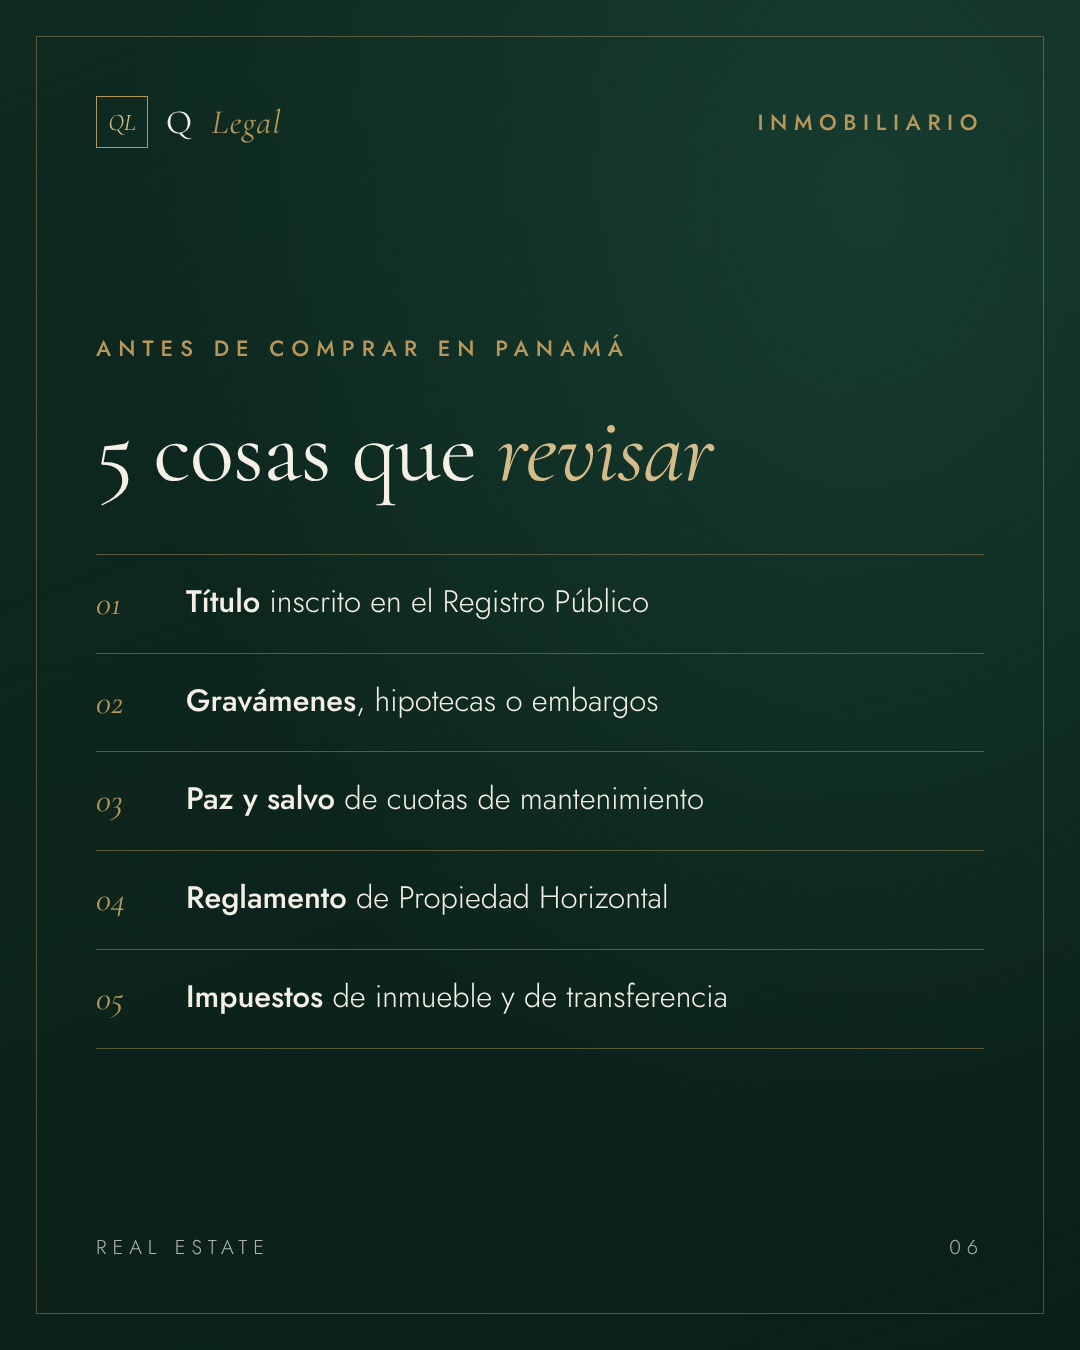
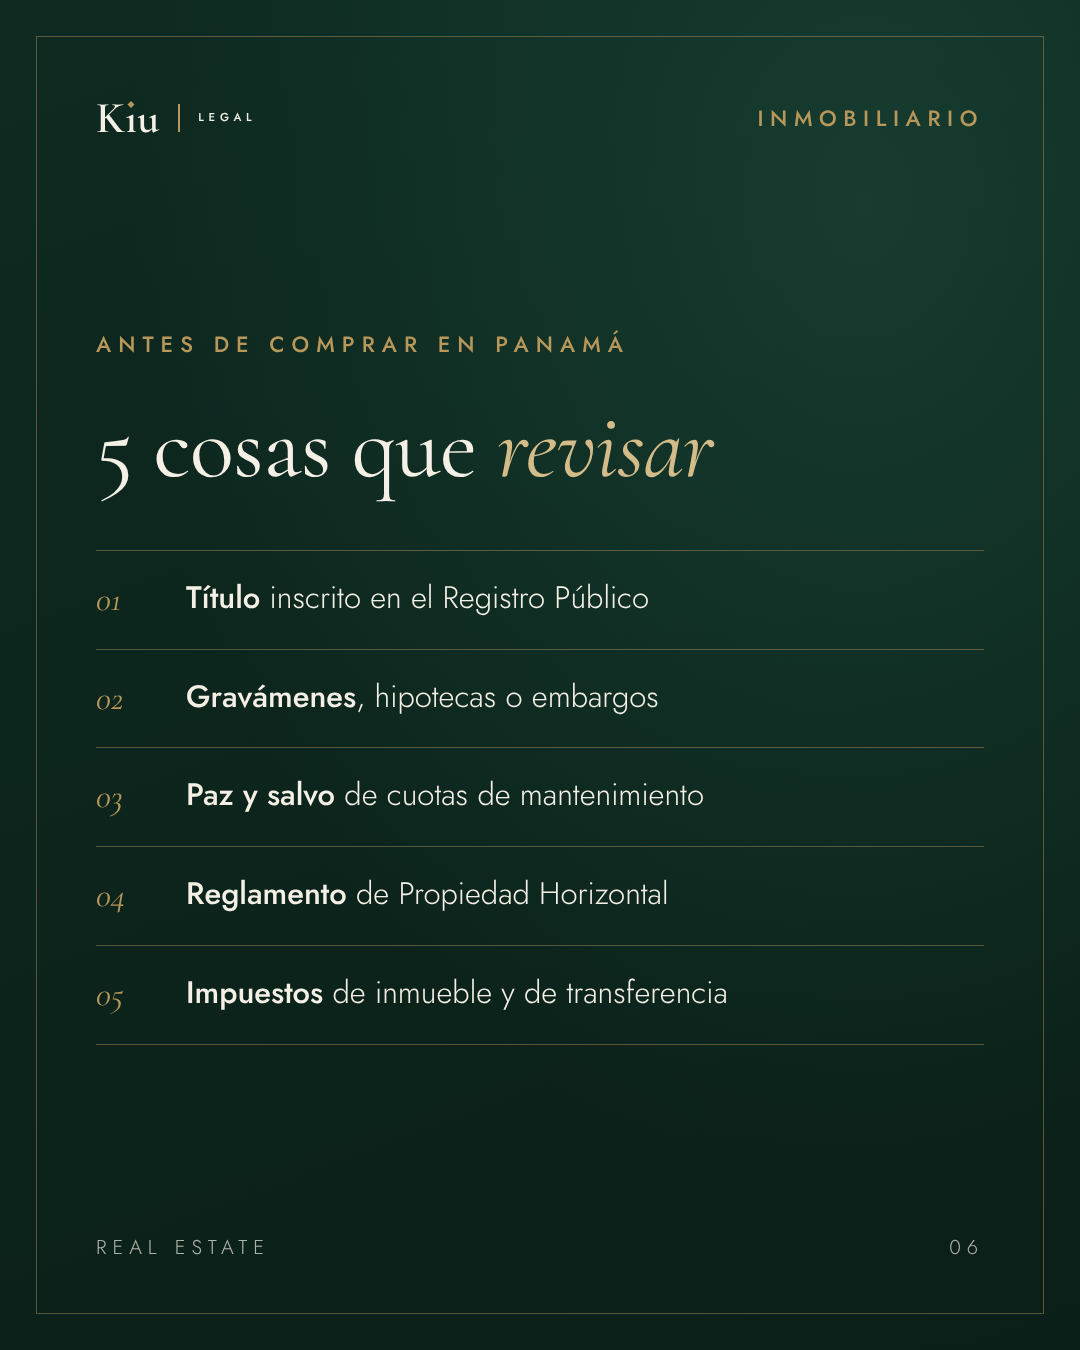
Rebrand Instagram kit to Kiu Legal
Kiu Legal wordmark on all ten posts, K icon as profile picture, and
captions, handle and hashtags updated in the kit README.

Claude-Session: https://claude.ai/code/session_01WEenf36RL8cNZQYsza8ctW

diff --git a/instagram/src/posts.html b/instagram/src/posts.html
@@ -2,7 +2,7 @@
 <html lang="es">
 <head>
 <meta charset="utf-8">
-<title>Q Legal — Instagram kit</title>
+<title>Kiu Legal — Instagram kit</title>
 <link href="https://fonts.googleapis.com/css2?family=Cormorant+Garamond:ital,wght@0,400;0,500;0,600;1,400;1,500&family=Jost:wght@300;400;500&display=swap" rel="stylesheet">
 <style>
   :root {
@@ -31,10 +31,14 @@
   .top { color: var(--brass); font-weight: 500; }
   .foot { margin-top: auto; font-size: 20px; opacity: .7; }
   .light .foot, .sand .foot { color: var(--green-900); }
-  .brand { display: flex; align-items: center; gap: 18px; font-family: var(--serif); font-size: 34px; letter-spacing: .04em; text-transform: none; color: inherit; font-weight: 400; }
+  /* Logotipo Kiu Legal: el punto de la i es un rombo dorado */
+  .brand { display: inline-flex; align-items: center; gap: .42em; line-height: 1; font-size: 44px; text-transform: none; letter-spacing: 0; color: var(--green-900); }
   .dark .brand { color: var(--ivory); }
-  .brand i { color: var(--brass); }
-  .mono { width: 52px; height: 52px; display: grid; place-items: center; border: 1.5px solid var(--brass); font-family: var(--serif); font-style: italic; font-size: 24px; color: var(--brass-lt); background: var(--green-900); letter-spacing: 0; }
+  .brand .kiu { font-family: var(--serif); font-weight: 600; letter-spacing: .01em; }
+  .brand .i { position: relative; display: inline-block; }
+  .brand .i::after { content: ""; position: absolute; left: 50%; top: .13em; width: .12em; height: .12em; background: var(--brass); transform: translateX(-50%) rotate(45deg); }
+  .brand .sep { width: 1.5px; height: .62em; background: var(--brass); }
+  .brand .legal { font-family: var(--sans); font-weight: 500; font-size: .26em; letter-spacing: .42em; }
 
   .body { margin-top: auto; }
   .eyebrow { font-size: 22px; letter-spacing: .32em; text-transform: uppercase; color: var(--brass); font-weight: 500; margin-bottom: 40px; }
@@ -74,8 +78,8 @@
 
   /* ---------- Avatar y portadas ---------- */
   .avatar { width: 1080px; height: 1080px; display: grid; place-items: center; background: var(--green-900); margin-bottom: 40px; }
-  .avatar .ring { width: 660px; height: 660px; border: 3px solid var(--brass); display: grid; place-items: center; }
-  .avatar span { font-family: var(--serif); font-style: italic; font-size: 330px; color: var(--brass-lt); letter-spacing: .02em; line-height: 1; padding-bottom: 30px; }
+  .avatar span { position: relative; font-family: var(--serif); font-weight: 600; font-size: 620px; color: var(--ivory); line-height: 1; padding-bottom: 40px; margin-left: -40px; }
+  .avatar span::after { content: ""; position: absolute; right: -.07em; top: .2em; width: .13em; height: .13em; background: var(--brass); transform: rotate(45deg); }
   .cover { width: 1080px; height: 1080px; display: grid; place-items: center; background: var(--green-900); margin-bottom: 40px; }
   .cover div { width: 560px; height: 560px; border-radius: 50%; border: 3px solid var(--brass); display: grid; place-items: center; text-align: center; }
   .cover span { font-family: var(--serif); font-style: italic; font-size: 120px; color: var(--brass-lt); line-height: 1; }
@@ -86,13 +90,13 @@
 
 <!-- 01 · Lanzamiento -->
 <section class="post dark" id="post-01">
-  <div class="watermark">Q</div>
-  <div class="top"><span class="brand"><span class="mono">QL</span>Q <i>Legal</i></span><span>2026</span></div>
+  <div class="watermark">K</div>
+  <div class="top"><span class="brand"><span class="kiu">K<span class="i">ı</span>u</span><span class="sep"></span><span class="legal">LEGAL</span></span><span>2026</span></div>
   <div class="body">
     <p class="eyebrow">Ciudad de Panamá</p>
     <h1>Pocos clientes.<br><em>Atención absoluta.</em></h1>
     <div class="rule"></div>
-    <p class="lede">Nace Q Legal: asesoría legal boutique para empresarios, inversionistas y navieras internacionales.</p>
+    <p class="lede">Nace Kiu Legal: asesoría legal boutique para empresarios, inversionistas y navieras internacionales.</p>
   </div>
   <div class="foot"><span>Boutique Legal Advisory</span><span>01</span></div>
 </section>
@@ -102,7 +106,7 @@
   <img src="../../assets/founder.jpg" alt="">
   <div class="shade"></div>
   <div class="inner">
-    <div class="top"><span class="brand"><span class="mono">QL</span>Q <i>Legal</i></span><span></span></div>
+    <div class="top"><span class="brand"><span class="kiu">K<span class="i">ı</span>u</span><span class="sep"></span><span class="legal">LEGAL</span></span><span></span></div>
     <div class="body">
       <p class="eyebrow">Socio fundador</p>
       <h2>Jose Alberto<br><em>Quiel</em></h2>
@@ -114,7 +118,7 @@
 
 <!-- 03 · Filosofía -->
 <section class="post light center" id="post-03">
-  <div class="top" style="width:100%"><span class="brand"><span class="mono">QL</span>Q <i>Legal</i></span><span>Filosofía</span></div>
+  <div class="top" style="width:100%"><span class="brand"><span class="kiu">K<span class="i">ı</span>u</span><span class="sep"></span><span class="legal">LEGAL</span></span><span>Filosofía</span></div>
   <div class="body" style="margin-bottom:auto">
     <div class="rule" style="margin:0 auto 64px"></div>
     <h2 style="font-size:84px;font-style:italic">“La mejor estrategia legal es la que nunca necesita defenderse en un tribunal.”</h2>
@@ -125,7 +129,7 @@
 
 <!-- 04 · Corporativo -->
 <section class="post dark" id="post-04">
-  <div class="top"><span class="brand"><span class="mono">QL</span>Q <i>Legal</i></span><span>Corporativo</span></div>
+  <div class="top"><span class="brand"><span class="kiu">K<span class="i">ı</span>u</span><span class="sep"></span><span class="legal">LEGAL</span></span><span>Corporativo</span></div>
   <div class="body">
     <p class="eyebrow">Estructuración internacional</p>
     <h2>¿Sociedad anónima o <em>fundación</em>?</h2>
@@ -148,7 +152,7 @@
 
 <!-- 05 · Marítimo -->
 <section class="post sand" id="post-05">
-  <div class="top"><span class="brand"><span class="mono">QL</span>Q <i>Legal</i></span><span>Marítimo</span></div>
+  <div class="top"><span class="brand"><span class="kiu">K<span class="i">ı</span>u</span><span class="sep"></span><span class="legal">LEGAL</span></span><span>Marítimo</span></div>
   <div class="body">
     <p class="eyebrow">Bandera panameña</p>
     <h2>Uno de los registros de buques <em>más grandes del mundo</em> está en Panamá.</h2>
@@ -163,7 +167,7 @@
 
 <!-- 06 · Inmobiliario -->
 <section class="post dark" id="post-06">
-  <div class="top"><span class="brand"><span class="mono">QL</span>Q <i>Legal</i></span><span>Inmobiliario</span></div>
+  <div class="top"><span class="brand"><span class="kiu">K<span class="i">ı</span>u</span><span class="sep"></span><span class="legal">LEGAL</span></span><span>Inmobiliario</span></div>
   <div class="body">
     <p class="eyebrow">Antes de comprar en Panamá</p>
     <h2>5 cosas que <em>revisar</em></h2>
@@ -180,7 +184,7 @@
 
 <!-- 07 · Residencia -->
 <section class="post light" id="post-07">
-  <div class="top"><span class="brand"><span class="mono">QL</span>Q <i>Legal</i></span><span>Residencia</span></div>
+  <div class="top"><span class="brand"><span class="kiu">K<span class="i">ı</span>u</span><span class="sep"></span><span class="legal">LEGAL</span></span><span>Residencia</span></div>
   <div class="body">
     <p class="eyebrow">Vivir e invertir en Panamá</p>
     <h2>Tres caminos hacia la <em>residencia</em></h2>
@@ -196,7 +200,7 @@
 
 <!-- 08 · Cómo trabajamos -->
 <section class="post dark" id="post-08">
-  <div class="top"><span class="brand"><span class="mono">QL</span>Q <i>Legal</i></span><span>Enfoque</span></div>
+  <div class="top"><span class="brand"><span class="kiu">K<span class="i">ı</span>u</span><span class="sep"></span><span class="legal">LEGAL</span></span><span>Enfoque</span></div>
   <div class="body">
     <p class="eyebrow">Cómo trabajamos</p>
     <h2>Sin facturación <em>por hora.</em></h2>
@@ -212,7 +216,7 @@
 
 <!-- 09 · Bilingüe -->
 <section class="post sand center" id="post-09">
-  <div class="top" style="width:100%"><span class="brand"><span class="mono">QL</span>Q <i>Legal</i></span><span>ES · EN</span></div>
+  <div class="top" style="width:100%"><span class="brand"><span class="kiu">K<span class="i">ı</span>u</span><span class="sep"></span><span class="legal">LEGAL</span></span><span>ES · EN</span></div>
   <div class="body" style="margin-bottom:auto">
     <h2 style="font-size:104px">Hablamos su idioma.</h2>
     <div class="rule" style="margin:56px auto"></div>
@@ -224,8 +228,8 @@
 
 <!-- 10 · Contacto -->
 <section class="post dark" id="post-10">
-  <div class="watermark">L</div>
-  <div class="top"><span class="brand"><span class="mono">QL</span>Q <i>Legal</i></span><span>Contacto</span></div>
+  <div class="watermark">K</div>
+  <div class="top"><span class="brand"><span class="kiu">K<span class="i">ı</span>u</span><span class="sep"></span><span class="legal">LEGAL</span></span><span>Contacto</span></div>
   <div class="body">
     <p class="eyebrow">Mandatos limitados cada año</p>
     <h1 style="font-size:116px">Consultas por invitación o <em>referencia.</em></h1>
@@ -236,7 +240,7 @@
 </section>
 
 <!-- Foto de perfil -->
-<section class="avatar" id="avatar"><div class="ring"><span>QL</span></div></section>
+<section class="avatar" id="avatar"><span>K</span></section>
 
 <!-- Portadas de historias destacadas -->
 <section class="cover" id="cover-firma"><div><span>I<small>La Firma</small></span></div></section>

diff --git a/instagram/README.md b/instagram/README.md
@@ -1,10 +1,10 @@
-# Q Legal — Kit de Instagram
+# Kiu Legal — Kit de Instagram
 
-Todo lo necesario para lanzar la cuenta de Instagram de Q Legal con la misma identidad que la web.
+Todo lo necesario para lanzar la cuenta de Instagram de Kiu Legal con la misma identidad que la web.
 
 ```
 posts/          10 posts listos para subir (1080×1350, formato vertical 4:5)
-perfil/         Foto de perfil (monograma QL)
+perfil/         Foto de perfil (ícono K con rombo dorado)
 destacadas/     Portadas para historias destacadas: La Firma, Práctica, Fundador, Contacto
 src/            Plantilla editable (posts.html) y script para regenerar las imágenes
 ```
@@ -15,9 +15,9 @@ Para cambiar un texto, edita `src/posts.html` y ejecuta `node instagram/src/rend
 
 ## Perfil
 
-**Usuario sugerido:** `@qlegal.pa` (alternativas: `@qlegalpanama`, `@q.legal`). Verifica que esté disponible.
+**Usuario sugerido:** `@kiulegal` (alternativas: `@kiu.legal`, `@kiulegalpanama`). Verifica que esté disponible.
 
-**Nombre:** Q Legal | Boutique Legal Advisory
+**Nombre:** Kiu Legal | Boutique Legal Advisory
 
 **Biografía (150 caracteres máx.):**
 
@@ -52,32 +52,32 @@ Cada texto va en español y luego en inglés. Copia y pega tal cual.
 ```
 Pocos clientes. Atención absoluta.
 
-Hoy nace Q Legal, una firma boutique de asesoría legal en Ciudad de Panamá para empresarios, inversionistas y navieras internacionales.
+Hoy nace Kiu Legal, una firma boutique de asesoría legal en Ciudad de Panamá para empresarios, inversionistas y navieras internacionales.
 
 Aceptamos un número limitado de mandatos cada año. Así conocemos a fondo cada negocio y cada patrimonio que representamos.
 
 —
 
 Few clients. Undivided attention.
-Q Legal is a boutique legal advisory firm in Panama City for international entrepreneurs, investors and shipowners.
+Kiu Legal is a boutique legal advisory firm in Panama City for international entrepreneurs, investors and shipowners.
 
-#QLegal #AbogadosPanamá #PanamaLawyer #BoutiqueLawFirm #CiudadDePanamá
+#KiuLegal #AbogadosPanamá #PanamaLawyer #BoutiqueLawFirm #CiudadDePanamá
 ```
 
 ### 02 · Fundador
 
 ```
-Jose Alberto Quiel, socio fundador de Q Legal.
+Jose Alberto Quiel, socio fundador de Kiu Legal.
 
 Abogado panameño con práctica en derecho corporativo, marítimo, inmobiliario y migratorio. Máster en Derecho Marítimo, Negocio Marítimo y Gestión Portuaria por la Universitat Politècnica de Catalunya, y posgrado en Práctica Jurídica por el ICAB de Barcelona.
 
-En Q Legal, cada cliente trabaja directamente con él.
+En Kiu Legal, cada cliente trabaja directamente con él.
 
 —
 
 Jose Alberto Quiel, Founding Attorney. Every client works directly with him.
 
-#QLegal #AbogadoPanameño #DerechoMarítimo #DerechoCorporativo #PanamaLawyer
+#KiuLegal #AbogadoPanameño #DerechoMarítimo #DerechoCorporativo #PanamaLawyer
 ```
 
 ### 03 · Filosofía
@@ -85,14 +85,14 @@ Jose Alberto Quiel, Founding Attorney. Every client works directly with him.
 ```
 "La mejor estrategia legal es la que nunca necesita defenderse en un tribunal."
 
-En Q Legal no litigamos. Nuestro trabajo es estructurar, prevenir y negociar para que los conflictos nunca lleguen a un tribunal.
+En Kiu Legal no litigamos. Nuestro trabajo es estructurar, prevenir y negociar para que los conflictos nunca lleguen a un tribunal.
 
 —
 
 "The finest legal strategy is the one that never has to be defended in court."
 We don't litigate. We structure, prevent and negotiate.
 
-#QLegal #AsesoríaLegal #LegalAdvisory #Panamá
+#KiuLegal #AsesoríaLegal #LegalAdvisory #Panamá
 ```
 
 ### 04 · Corporativo
@@ -111,7 +111,7 @@ La estructura correcta depende de sus objetivos. Escríbanos para una conversaci
 
 Corporation or private interest foundation? One runs a business; the other protects and passes on wealth.
 
-#QLegal #SociedadAnónima #FundaciónDeInterésPrivado #EstructuraciónCorporativa #PanamaCorporation
+#KiuLegal #SociedadAnónima #FundaciónDeInterésPrivado #EstructuraciónCorporativa #PanamaCorporation
 Información general; no constituye asesoría legal.
 ```
 
@@ -131,7 +131,7 @@ Una práctica respaldada por formación especializada en Derecho Marítimo y Ges
 
 Panama hosts one of the world's largest ship registries. We advise shipowners on registration, ship mortgages and vessel sale and purchase.
 
-#QLegal #DerechoMarítimo #MaritimeLaw #PanamaFlag #Shipping #RegistroDeBuques
+#KiuLegal #DerechoMarítimo #MaritimeLaw #PanamaFlag #Shipping #RegistroDeBuques
 ```
 
 ### 06 · Inmobiliario
@@ -151,7 +151,7 @@ Guarde este post para su próxima inversión.
 
 Buying property in Panama? Check title, liens, HOA dues, condominium rules and taxes before you sign.
 
-#QLegal #BienesRaícesPanamá #PropiedadHorizontal #RealEstatePanama #InversiónInmobiliaria
+#KiuLegal #BienesRaícesPanamá #PropiedadHorizontal #RealEstatePanama #InversiónInmobiliaria
 Información general; no constituye asesoría legal.
 ```
 
@@ -170,7 +170,7 @@ Los requisitos y montos cambian. Le ayudamos a elegir la vía adecuada y a coord
 
 Three paths to Panama residency: Qualified Investor, Friendly Nations and Retiree visas.
 
-#QLegal #ResidenciaPanamá #PanamaResidency #InvestorVisa #FriendlyNationsVisa #VivirEnPanamá
+#KiuLegal #ResidenciaPanamá #PanamaResidency #InvestorVisa #FriendlyNationsVisa #VivirEnPanamá
 Información general; no constituye asesoría legal.
 ```
 
@@ -190,7 +190,7 @@ Sabe cuánto va a invertir desde el primer día.
 
 No hourly billing. Fixed fees, in writing, and direct work with the founding attorney.
 
-#QLegal #HonorariosFijos #AsesoríaLegal #BoutiqueLawFirm
+#KiuLegal #HonorariosFijos #AsesoríaLegal #BoutiqueLawFirm
 ```
 
 ### 09 · Bilingüe
@@ -204,7 +204,7 @@ Asesoramos en español e inglés a clientes que invierten y hacen negocios en Pa
 
 Legal advice in Spanish and English for clients investing in Panama from anywhere in the world.
 
-#QLegal #BilingualLawyer #AbogadoBilingüe #InvestInPanama #PanamaLawyer
+#KiuLegal #BilingualLawyer #AbogadoBilingüe #InvestInPanama #PanamaLawyer
 ```
 
 ### 10 · Contacto
@@ -212,7 +212,7 @@ Legal advice in Spanish and English for clients investing in Panama from anywher
 ```
 Consultas por invitación o referencia.
 
-Q Legal acepta un número limitado de mandatos cada año. Si desea una conversación privada, escríbanos por mensaje directo o a través del enlace en nuestra biografía.
+Kiu Legal acepta un número limitado de mandatos cada año. Si desea una conversación privada, escríbanos por mensaje directo o a través del enlace en nuestra biografía.
 
 PH Dream Plaza, Costa del Este, Ciudad de Panamá.
 
@@ -220,7 +220,7 @@ PH Dream Plaza, Costa del Este, Ciudad de Panamá.
 
 Inquiries by introduction or referral. Send us a DM or use the link in bio.
 
-#QLegal #AbogadosPanamá #CostaDelEste #PanamaLawyer #BoutiqueLawFirm
+#KiuLegal #AbogadosPanamá #CostaDelEste #PanamaLawyer #BoutiqueLawFirm
 ```
 
 ---
